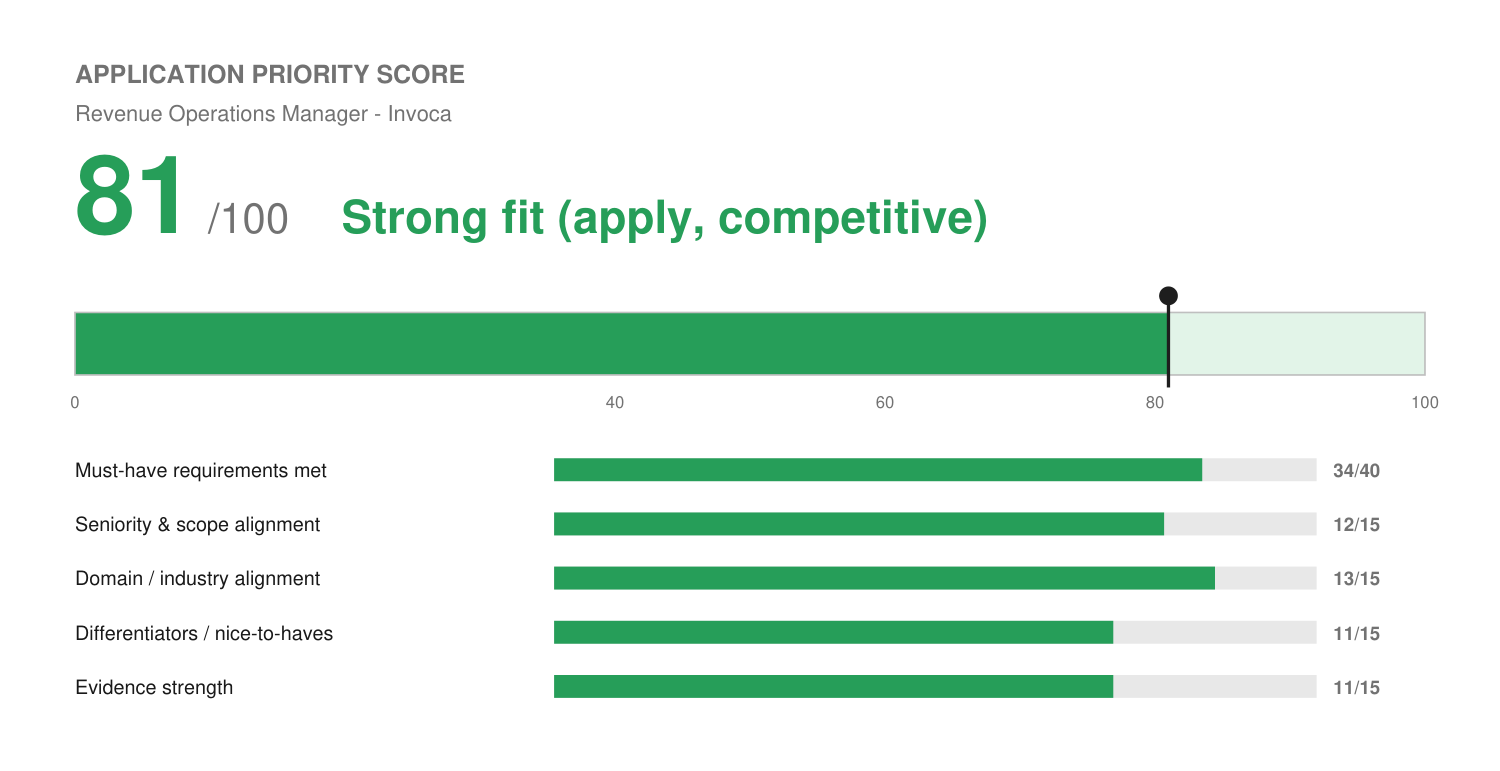
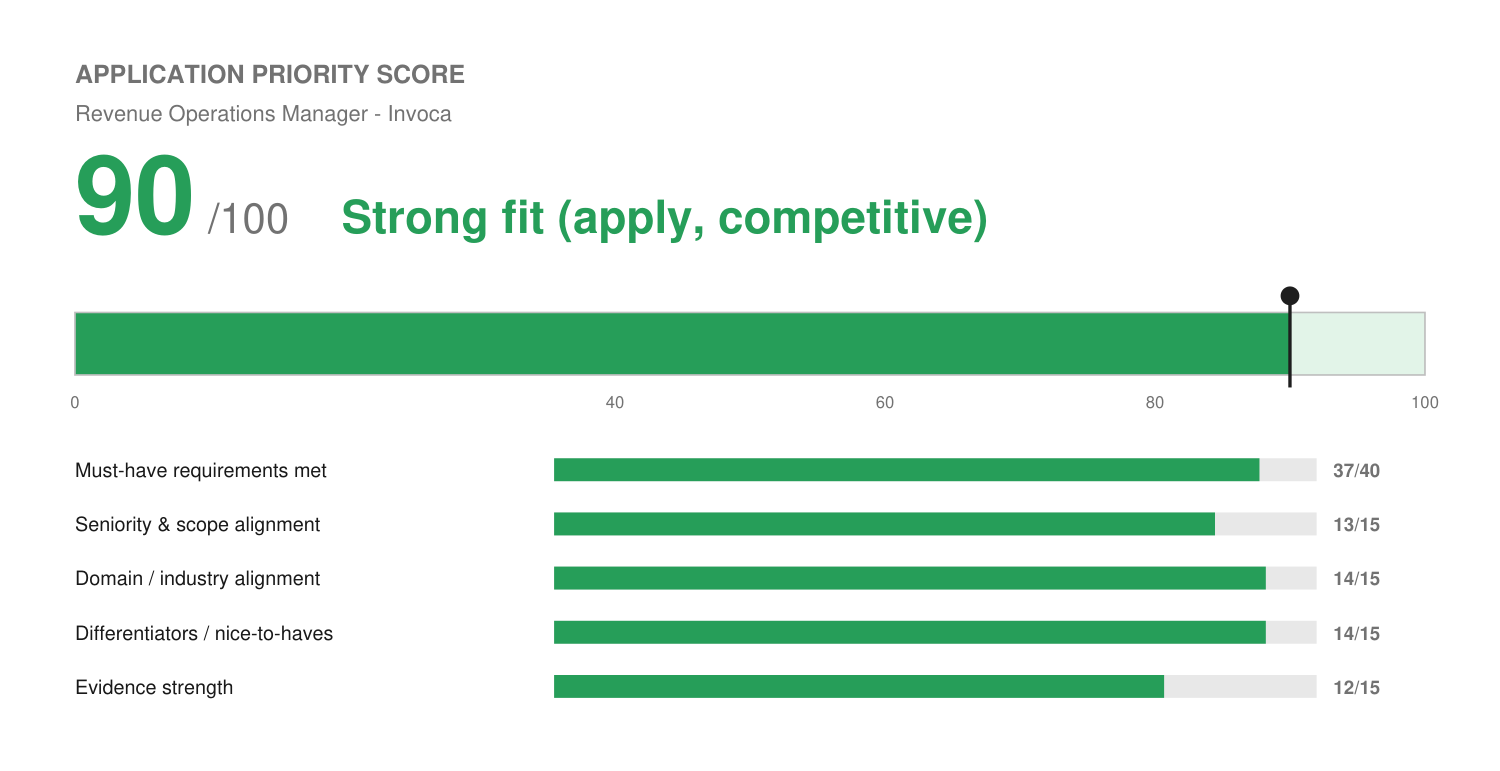
Rescore Invoca 81 -> 90 after confirming Salesloft/ZoomInfo/Gong and automation history
Josh confirmed hands-on use of Invoca's exact named GTM stack (Salesloft,
ZoomInfo, Gong), an automation-building history running Zapier at Accelo
(2018-2020) through Make/n8n at Solenzo today, and a real Solenzo
concurrency number (up to 3 clients at once). Updated resume, fit score,
and match report accordingly. Added these as permanent master-profile
facts (tools/platforms table, Accelo and Solenzo bullet banks) so they're
available for every future application, not just this one. Also recorded
a private, non-resume note explaining why Solenzo's monthly lead-volume
metric isn't reliably capturable, so it stops getting re-asked.

Claude-Session: https://claude.ai/code/session_01WyTDmPmJhaMoZNuKsZg2t7

diff --git a/profile/master-profile.md b/profile/master-profile.md
@@ -120,6 +120,13 @@ band.
   letters and interviews at the general level (condition, procedure count, duration,
   what he fought for) without naming the specific body part/diagnosis unless Josh wants
   that level of detail in a given application; that's his call per document, not a default.
+- **Private internal note (confirmed by Josh, Sep 2026, NOT resume/cover-letter/application
+  content under any circumstances unless Josh explicitly opts in for a specific document):**
+  Josh has taken long periods off from Solenzo for surgery/recovery tied to the condition
+  above. This is why Solenzo monthly lead-volume and output metrics aren't reliably
+  capturable as a standing number, treat that as a real constraint on the data, not a gap
+  to keep re-asking about. Useful for Claude's own calibration when reading Solenzo's
+  scale; never volunteer it externally.
 
 ---
 
@@ -237,6 +244,18 @@ operator talking, not like a candidate performing.
 - Document every client interaction, timeline, and deliverable in GoHighLevel, HubSpot, and Notion, keeping project records auditable across concurrent engagements.
 
 **Marketing & Growth Systems**
+> **Automation platform breadth beyond GoHighLevel (confirmed by Josh, Sep 2026):** Josh
+> builds automations in Zapier, Make, and n8n at Solenzo, in addition to native
+> GoHighLevel workflows, not siloed to one platform. He has built Zapier automations
+> specifically since Accelo (2018-2020), meaning hands-on automation-building predates
+> Solenzo by several years rather than being a recent skill. Use the specific platform
+> when a JD names one (e.g. "Zapier" or "Make" or "n8n" or "comparable AI workflow
+> automation tools").
+>
+> **Salesloft, ZoomInfo, and Gong (confirmed by Josh, Sep 2026):** Josh has hands-on
+> experience with all three. Exact employer/role attribution for each not yet captured,
+> ask Josh which role(s) before writing a role-specific bullet naming one of them; safe
+> to use in a role-agnostic competencies/tools list today.
 - Claim, set up, and optimize Google Business Profile listings (categories, descriptions, services, photos, posts) as the first deliverable in every client engagement, the foundation the rest of each client's local SEO and lead-flow program builds on.
 - Develop and execute full-lifecycle customer strategies spanning demand generation, sales CRM architecture, and customer success, demonstrating clear ROI and revenue growth.
 - Architect and deploy autonomous, AI-driven marketing systems for service-based businesses — largely on GoHighLevel — automating lead enrichment, outreach, and appointment booking.
@@ -324,6 +343,9 @@ operator talking, not like a candidate performing.
 - Drove team initiatives and process improvements for a brand-new Wix vertical that went from proof of concept to a profitable business line, contributing to hiring, onboarding, and training of new hires and developing sales training for tenured account executives. *(Corroborated by direct manager's written LinkedIn recommendation — see References.)*
 
 ### Accelo — Account Executive (Apr 2018 – Jul 2020)
+> **Zapier automation (confirmed by Josh, Sep 2026):** Josh built Zapier automations at
+> Accelo, making his hands-on automation-building history run from at least 2018-2020
+> through the present at Solenzo, not a skill that started recently.
 - Ranked **top three in sales on a team of 8 to 15 reps** for effectively the full tenure (all but the final few months), holding that ranking while **quota roughly doubled** over the period.
 - Closed deals of **$20K and larger** later in tenure, mixed with a base of smaller wins.
 - Built sequenced implementation plans for incoming clients, ranking which systems to change and in what order, and handed them to the implementation team to execute against.
@@ -375,14 +397,22 @@ operator talking, not like a candidate performing.
 
 ## Core Competencies Bank (mix & match to the job)
 
+> **Forecasting / pipeline-stage awareness (confirmed by Josh, Sep 2026):** knowing where
+> an opportunity sits in the sales process has been part of every sales role Josh has
+> held, not a skill isolated to one job. Frame as career-long individual-contributor
+> pipeline visibility and forecast hygiene; he has not run a formal team forecast cadence
+> or owned a territory-planning process, keep that distinction honest against a JD asking
+> specifically for that broader scope.
+
 | Category | Competencies |
 | :--- | :--- |
-| CRM & Marketing Automation | GoHighLevel (primary) CRM & Automation Architecture, HubSpot, Salesforce, Workflow Design, Segmentation, Data Hygiene, Lifecycle Stages, Lead Routing |
+| CRM & Marketing Automation | GoHighLevel (primary) CRM & Automation Architecture, HubSpot, Salesforce, Workflow Design, Segmentation, Data Hygiene, Lifecycle Stages, Lead Routing, Zapier, Make, n8n |
+| Sales Engagement & Enrichment | Salesloft, ZoomInfo, Gong (confirmed hands-on, Sep 2026; role attribution to be captured), Pipeline Stage Tracking & Forecast Hygiene |
 | Growth & Demand Generation | Full-funnel acquisition, Lifecycle Marketing, CRO, A/B Testing, Paid Media, Paid Social (Meta Ads certified), SEO, Local SEO & Google Business Profile Management, Data-Aggregator/Listings Solutions, Email Marketing, Landing Pages |
 | Analytics & Reporting | GA4, Google Search Console, Google Tag Manager, Ahrefs, Semrush, Campaign Attribution, ROI Dashboards, QBRs, KPI Tracking |
 | AI & Automation | Agentic AI, Multi-agent orchestration, LLM workflows, ChatGPT, Claude, Prompt Design, Requirements-to-Prompt Translation, Stakeholder Elicitation, Rapid Prototyping |
 | Customer Success | Onboarding Strategy, Churn Prevention, Time-to-Value Reduction, NPS, Retention, Upsell Identification, Success Plans |
-| Sales & Account Management | Full-cycle Sales, Pipeline Management, C-Suite Relationship Building, Strategic Advisory, Account Expansion |
+| Sales & Account Management | Full-cycle Sales, Pipeline Management, Pipeline Stage Tracking & Forecast Hygiene, C-Suite Relationship Building, Strategic Advisory, Account Expansion |
 | Operations & Systems | Process Mapping, SOP Development, Workflow Decomposition, Project Management, Cross-functional Coordination |
 | Content & Writing | Thought Leadership, Direct Response Copy, Technical Translation, Brand Voice, Editorial Management |
 | Tools & Platforms | GoHighLevel, HubSpot, Salesforce, Notion, Slack, Asana, Monday.com, Jira, Zendesk, ClickUp, Screaming Frog, Google Apps, Procore |
@@ -406,6 +436,7 @@ operator talking, not like a candidate performing.
 - **2 years as team lead at Wix, managing a team of 20 and later a team of 8** onboarding specialists (confirmed by Josh, Aug 2026)
 - **20+ GoHighLevel automation workflows built & deployed (Solenzo)** across the full lifecycle (capture, qualify, book, no-show recovery, onboard, nurture/reactivate, reviews, segmented cold outreach); audit/outreach workflow enrolled 180+ contacts
 - **Free digital-footprint audit offer (Solenzo), promoted via LinkedIn organic growth: 180+ businesses enrolled, 2 converted to paying clients** (~1.1% audit-to-client conversion) — confirmed by Josh, Aug 2026. This is Josh's own product-marketing / PLG-style motion: a free offer as top-of-funnel, distributed through his own LinkedIn growth, converting a share of free users to paid. Track record still early; do not overstate the conversion rate, state it plainly.
+- **Up to 3 concurrent clients at Solenzo** at peak, while personally building the outbound automation system and running outbound himself (confirmed by Josh, Sep 2026). This is a solo-founder scale number, real and specific, not a large book, state it plainly rather than rounding up. Monthly lead volume at Solenzo is not reliably capturable as a metric (see private note below) — do not estimate one.
 
 > If a job calls for a metric not in this list, do NOT manufacture one. Use a
 > qualitative achievement instead, or flag it for Josh to supply a real number.
@@ -420,10 +451,10 @@ isolation. When a number gets captured, move it up into **Verified Quantified Me
 with its scope and delete the line here.
 
 **Highest leverage (recurs across role types):**
-- **Concurrent workload.** How many accounts, clients, or implementations he ran at the
-  same time — at Solenzo and Birdeye. Wix is now covered (25+/month, see Verified
-  Metrics). Nearly every ops, CS, and implementation JD asks about managing multiple
-  projects, so the remaining two are still worth capturing.
+- **Concurrent workload at Birdeye.** How many partner accounts he actively managed at
+  once (distinct from the 15-20 total onboarded/managed over the full tenure). Wix is
+  covered (25+/month) and Solenzo is covered (up to 3 concurrent clients), see Verified
+  Metrics. Birdeye is the remaining gap.
 - **Time-to-launch / time-to-value.** Typical onboarding duration at Wix and Birdeye,
   and whether it improved during his tenure (from what, to what).
 - **Wix hiring/training counts.** Team size and duration are now captured (2 years, 20 then
@@ -434,7 +465,8 @@ with its scope and delete the line here.
   what tool he cleaned it in. Directly requested by implementation JDs (Excel is named
   explicitly in several) and currently unevidenced.
 - **Training delivery.** Number of sessions run and people trained, at Wix and Birdeye.
-- **Solenzo portfolio size.** How many clients, and typical retainer range.
+- **Solenzo retainer range.** Concurrent client count is now captured (up to 3, see Verified
+  Metrics); typical retainer/contract value per client is still unrecorded.
 - **Level Agency accounts.** Portfolio size and spend under management.
 - **Accelo implementation scope.** Typical implementation size in seats or hours.
 

diff --git a/applications/invoca-revenue-operations-manager/match-report.md b/applications/invoca-revenue-operations-manager/match-report.md
@@ -17,7 +17,7 @@
 | 5+ years RevOps/SalesOps/GTM Ops, B2B SaaS | Resume-evidenced — met (functional, not by title) | 15+ years; the specific title "RevOps" never appears in his work history, but the day-to-day work (lead routing, CRM governance, reporting) does |
 | Bachelor's in Business Administration, Economics, or related, or equivalent practical experience | Resume-evidenced (via "equivalent experience" clause) | Josh holds a B.A. Liberal Arts, not Business/Econ |
 | Compensation expectations | Needs candidate confirmation | Posting states $96,900-$131,000 base + variable + equity; this is above the $75K associate-level baseline on file, needs its own number |
-| Named tech stack: Salesloft, ZoomInfo, Gong | Gap | Not in profile |
+| Named tech stack: Salesloft, ZoomInfo, Gong | Resume-evidenced — met | Josh confirmed hands-on use of all three (Sep 2026); exact role attribution not yet captured, still safe to claim per the skill's two-minute-defensibility standard |
 
 No hard knockout found. No score cap applied. Location is a clean match, not a flag.
 
@@ -25,20 +25,22 @@ No hard knockout found. No score cap applied. Location is a clean match, not a f
 
 ## Application Priority Score
 
-⚪ **81 / 100 — Strong fit (apply, competitive)**
-`[████████████████░░░░] 81%`
+⚪ **90 / 100 — Strong fit (apply, competitive)**
+`[██████████████████░░] 90%`
 
 *Internal decision aid, not a prediction of Invoca's screening outcome.* See `fit.png`.
 
 | Dimension | Score | Max |
 | :--- | :---: | :---: |
-| Must-have requirements met | 34 | 40 |
-| Seniority & scope alignment | 12 | 15 |
-| Domain / industry alignment | 13 | 15 |
-| Differentiators / nice-to-haves | 11 | 15 |
-| Evidence strength | 11 | 15 |
+| Must-have requirements met | 37 | 40 |
+| Seniority & scope alignment | 13 | 15 |
+| Domain / industry alignment | 14 | 15 |
+| Differentiators / nice-to-haves | 14 | 15 |
+| Evidence strength | 12 | 15 |
 
-This posting explicitly wants someone who can "independently build, test, and deploy AI-powered workflows and automations, not just evaluate or direct others to do so." That's an unusually precise match for Josh's actual, current, hands-on work at Solenzo, most candidates in this pool will be strong on traditional RevOps and weak on that specific bar; Josh is the reverse-proof case.
+**Rescored Sep 16, 2026 from 81 → 90** after Josh confirmed three real facts: hands-on experience with Salesloft, ZoomInfo, and Gong (the exact named "core GTM tech stack" this posting lists), an automation-building history running from Accelo (2018-2020, Zapier) through Solenzo today (Make, n8n, GoHighLevel), and a real Solenzo concurrency number (up to 3 clients at once). This posting explicitly wants someone who can "independently build, test, and deploy AI-powered workflows and automations, not just evaluate or direct others to do so." That's an unusually precise match for Josh's actual, current, hands-on work, and now the resume can name the exact tools this posting names instead of arguing by analogy.
+
+Evidence strength is the one dimension that didn't move much (11→12): the concurrency number is real but modest in scale (3 clients, not 30), and role attribution for Salesloft/ZoomInfo/Gong is still open. Closing that attribution is the most direct path to another point or two, see Candidate Confirmation Needed.
 
 ---
 
@@ -50,7 +52,7 @@ This posting explicitly wants someone who can "independently build, test, and de
 | Pipeline management, forecasting support, lead routing, reporting | Strong | Solenzo: lead capture/tagging/routing (20+ workflows); Level Agency: ROI/CAC/LTV/QBR reporting |
 | Scalable process design that holds up as org grows | Strong | Wix: new vertical, proof of concept to profitable business line; Solenzo: CRM architecture at scale |
 | Strong Salesforce proficiency + GTM systems comfort | Strong | Salesforce at Birdeye, Wix, Fivestars |
-| Named GTM stack (Salesforce, Salesloft, ZoomInfo, Gong, Gumloop or comparable) | Partial | Salesforce strong; Salesloft/ZoomInfo/Gong not evidenced; GoHighLevel AI-automation work is a genuine "comparable AI workflow automation tool" claim |
+| Named GTM stack (Salesforce, Salesloft, ZoomInfo, Gong, Gumloop or comparable) | Strong | Salesforce, Salesloft, ZoomInfo, and Gong all confirmed hands-on; Zapier/Make/n8n cover "comparable AI workflow automation tool" directly |
 | Hands-on AI fluency, build/test/deploy independently | Strong (standout) | Solenzo: personally architects, builds, and evaluates AI agent workflows and automation systems |
 | Strong analytical skills, data-to-recommendation | Strong | Level Agency reporting frameworks; Birdeye adoption-gap analysis |
 | Cross-functional communication/influence with sellers, leadership, technical partners | Strong | Birdeye Product/Engineering liaison; references |
@@ -61,24 +63,25 @@ This posting explicitly wants someone who can "independently build, test, and de
 
 ## Top Strengths
 
-- The AI-fluency requirement is the sharpest edge in this application: Invoca explicitly wants someone who builds AI workflows themselves, not just directs others to. Solenzo's 20+-workflow GoHighLevel automation system and the 180+-contact digital-footprint scoring engine are direct, current, personally-built proof, not a claimed interest.
+- The AI-fluency requirement is the sharpest edge in this application: Invoca explicitly wants someone who builds AI workflows themselves, not just directs others to. Solenzo's 20+-workflow GoHighLevel automation system and the 180+-contact digital-footprint scoring engine are direct, current, personally-built proof, not a claimed interest, and the Zapier history back to Accelo shows it's not a recently-acquired skill.
+- Hands-on experience with Invoca's exact named stack (Salesloft, ZoomInfo, Gong) closes what was the single largest gap in the first draft of this application.
 - "Lead capture, tagging, and routing" is close to verbatim language shared between Josh's own Solenzo bullet and this posting's "lead routing and account assignment" requirement, genuine terminology overlap, not forced.
 - Wix's "proof of concept to profitable business line" is concrete evidence of designing process that scales, directly answering "a track record of designing and implementing scalable processes that hold up as an organization grows."
 
 ## Gaps
 
-- No hands-on experience with Salesloft, ZoomInfo, or Gong specifically.
 - No formal "Revenue Operations" or "Sales Operations" job title in the work history, the work is there, the title isn't.
-- No direct evidence of sales forecasting or territory/quota operations specifically (as distinct from Josh's own quota attainment as an AE).
+- No evidence of a formal team forecast cadence or territory-planning ownership, distinct from the career-long individual-contributor pipeline-stage awareness Josh does have.
 
 ## Candidate Confirmation Needed
 
 - Work authorization.
 - **Compensation target for this specific role.** The posted $96,900-$131,000 base + variable + equity sits well above the $75K associate-level baseline now in `master-profile.md`. That baseline explicitly doesn't apply to manager-level roles like this one, say the word and I'll pull comparable market data the way I did for Jama, or give me a number directly.
+- **Which employer(s) Salesloft, ZoomInfo, and Gong were used at.** Confirmed hands-on but not yet tied to a specific role, useful for a sharper resume bullet and for interview prep.
 
 ## Metrics Needed
 
-- A concurrent-account or portfolio-size number for Solenzo (already an open item in `master-profile.md`) would strengthen the reporting/pipeline-velocity bullets further.
+- Solenzo retainer range (concurrent client count of up to 3 is now captured, see `master-profile.md`).
 
 ## Referral
 
